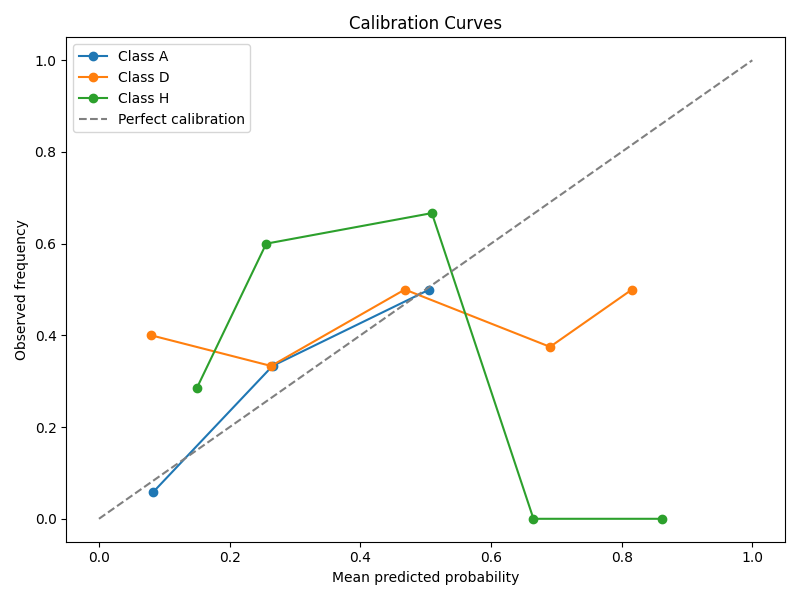
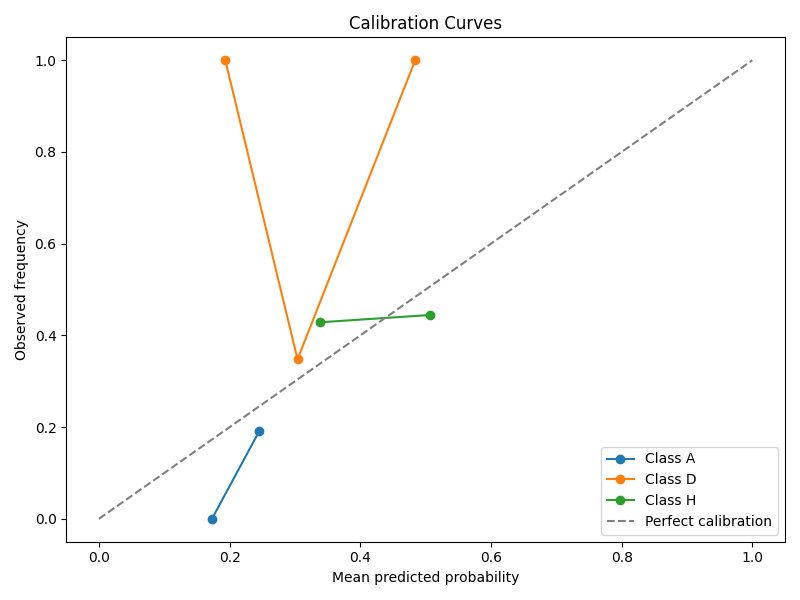
Fixed Issues

diff --git a/fifa-2026-predictor/src/models/train_xgb.py b/fifa-2026-predictor/src/models/train_xgb.py
@@ -41,30 +41,42 @@ def main() -> None:
     x_val, y_val = to_xy(val_df, feature_cols)
 
     xgb_cfg = cfg["model"]["xgb"]
+    esr = xgb_cfg.get("early_stopping_rounds")
+    early_stopping_rounds = int(esr) if esr is not None else None
+    if early_stopping_rounds is not None and early_stopping_rounds <= 0:
+        early_stopping_rounds = None
+
+    classifier = XGBClassifier(
+        n_estimators=int(xgb_cfg["n_estimators"]),
+        learning_rate=float(xgb_cfg["learning_rate"]),
+        max_depth=int(xgb_cfg["max_depth"]),
+        subsample=float(xgb_cfg["subsample"]),
+        colsample_bytree=float(xgb_cfg["colsample_bytree"]),
+        min_child_weight=int(xgb_cfg.get("min_child_weight", 1)),
+        gamma=float(xgb_cfg.get("gamma", 0.0)),
+        reg_alpha=float(xgb_cfg.get("reg_alpha", 0.0)),
+        reg_lambda=float(xgb_cfg.get("reg_lambda", 1.0)),
+        objective=str(xgb_cfg["objective"]),
+        num_class=3,
+        eval_metric="mlogloss",
+        random_state=int(cfg["project"]["random_state"]),
+        early_stopping_rounds=early_stopping_rounds,
+    )
+
+    preprocessor.fit(x_train, y_train)
+    x_train_t = preprocessor.transform(x_train)
+    x_val_t = preprocessor.transform(x_val)
+    fit_kwargs: dict = {"verbose": False}
+    if early_stopping_rounds is not None and early_stopping_rounds > 0:
+        fit_kwargs["eval_set"] = [(x_val_t, y_val)]
+    classifier.fit(x_train_t, y_train, **fit_kwargs)
+
     model = Pipeline(
         steps=[
             ("preprocessor", preprocessor),
-            (
-                "classifier",
-                XGBClassifier(
-                    n_estimators=int(xgb_cfg["n_estimators"]),
-                    learning_rate=float(xgb_cfg["learning_rate"]),
-                    max_depth=int(xgb_cfg["max_depth"]),
-                    subsample=float(xgb_cfg["subsample"]),
-                    colsample_bytree=float(xgb_cfg["colsample_bytree"]),
-                    min_child_weight=int(xgb_cfg.get("min_child_weight", 1)),
-                    gamma=float(xgb_cfg.get("gamma", 0.0)),
-                    reg_alpha=float(xgb_cfg.get("reg_alpha", 0.0)),
-                    reg_lambda=float(xgb_cfg.get("reg_lambda", 1.0)),
-                    objective=str(xgb_cfg["objective"]),
-                    num_class=3,
-                    eval_metric="mlogloss",
-                    random_state=int(cfg["project"]["random_state"]),
-                ),
-            ),
+            ("classifier", classifier),
         ]
     )
-    model.fit(x_train, y_train)
 
     artifact_dir = ensure_artifact_dir(cfg["paths"]["trained_model_dir"])
     model_path = artifact_dir / f"{args.model_name}.joblib"
@@ -79,7 +91,13 @@ def main() -> None:
             "test": len(test_df),
         },
         "feature_columns": feature_cols,
+        "early_stopping_rounds": early_stopping_rounds,
     }
+    if early_stopping_rounds is not None and early_stopping_rounds > 0:
+        try:
+            metadata["best_iteration"] = int(classifier.best_iteration)
+        except AttributeError:
+            pass
     meta_path.write_text(json.dumps(metadata, indent=2), encoding="utf-8")
     print(f"Saved model to {model_path}")
     print(f"Train: {len(train_df)} | Val: {len(val_df)} | Test: {len(test_df)}")

diff --git a/fifa-2026-predictor/src/evaluation/evaluate.py b/fifa-2026-predictor/src/evaluation/evaluate.py
@@ -11,7 +11,14 @@ import numpy as np
 from sklearn.calibration import calibration_curve
 from sklearn.metrics import accuracy_score, log_loss
 
-from src.models.common import TARGET_MAP, load_feature_data, make_chronological_split, to_xy
+from src.models.common import (
+    INV_TARGET_MAP,
+    TARGET_MAP,
+    build_preprocessor,
+    load_feature_data,
+    make_chronological_split,
+    to_xy,
+)
 from src.utils import PROJECT_ROOT, ensure_parent_dir, load_config
 
 
@@ -20,14 +27,25 @@ def multiclass_brier_score(y_true: np.ndarray, y_prob: np.ndarray) -> float:
     return float(np.mean(np.sum((y_prob - one_hot) ** 2, axis=1)))
 
 
+def align_predict_proba(y_prob: np.ndarray, classes: np.ndarray) -> np.ndarray:
+    """Reorder sklearn/XGBoost `predict_proba` columns to ascending class label 0, 1, …"""
+    classes = np.asarray(classes).astype(int).ravel()
+    if classes.size != y_prob.shape[1]:
+        raise ValueError("classes length must match number of probability columns.")
+    order = np.argsort(classes)
+    if np.array_equal(order, np.arange(len(classes))):
+        return y_prob
+    return y_prob[:, order]
+
+
 def save_calibration_plot(
     y_true: np.ndarray,
     y_prob: np.ndarray,
     output_png: str,
 ) -> None:
-    class_names = ["A", "D", "H"]
     plt.figure(figsize=(8, 6))
-    for idx, cls in enumerate(class_names):
+    for idx in range(y_prob.shape[1]):
+        cls = INV_TARGET_MAP[idx]
         binary_true = (y_true == idx).astype(int)
         frac_pos, mean_pred = calibration_curve(binary_true, y_prob[:, idx], n_bins=5)
         plt.plot(mean_pred, frac_pos, marker="o", label=f"Class {cls}")
@@ -64,11 +82,12 @@ def main() -> None:
     )
 
     model = joblib.load(PROJECT_ROOT / args.model_path)
-    feature_cols = [c for c in test_df.columns if c not in {"target", "home_score", "away_score", "date"}]
-    feature_cols = [c for c in feature_cols if c in test_df.columns]
+    _, feature_cols = build_preprocessor(df)
     x_test, y_test = to_xy(test_df, feature_cols)
 
-    y_prob = model.predict_proba(x_test)
+    y_prob_raw = model.predict_proba(x_test)
+    clf = model.named_steps["classifier"]
+    y_prob = align_predict_proba(y_prob_raw, clf.classes_)
     y_pred = np.argmax(y_prob, axis=1)
 
     metrics = {

diff --git a/fifa-2026-predictor/src/app/predict_match.py b/fifa-2026-predictor/src/app/predict_match.py
@@ -13,8 +13,9 @@ import numpy as np
 import pandas as pd
 from scipy.stats import poisson
 
+from src.features.competition_weights import COMPETITION_WEIGHTS, DEFAULT_COMPETITION_WEIGHT
 from src.features.elo import EloConfig, expected_score, update_ratings
-from src.models.common import INV_TARGET_MAP
+from src.models.common import TARGET_MAP
 from src.utils import PROJECT_ROOT, load_config
 
 
@@ -91,15 +92,6 @@ def build_pre_match_row(
     home_elo = float(ratings[home_team])
     away_elo = float(ratings[away_team])
 
-    _competition_weights = {
-        "FIFA World Cup": 5,
-        "UEFA Euro": 4,
-        "Copa America": 4,
-        "UEFA Nations League": 3,
-        "UEFA Euro Qualification": 2,
-        "FIFA World Cup Qualification": 2,
-        "International Friendly": 1,
-    }
     elo_adj = home_elo + (0.0 if neutral else elo_cfg.home_advantage)
     row = {
         "home_team": home_team,
@@ -126,7 +118,7 @@ def build_pre_match_row(
         "form_diff_home_away": home_form - away_form,
         "goal_balance_diff": (home_gf - home_ga) - (away_gf - away_ga),
         "rank_diff": home_fifa_rank - away_fifa_rank,
-        "competition_weight": _competition_weights.get(competition, 2),
+        "competition_weight": COMPETITION_WEIGHTS.get(competition, DEFAULT_COMPETITION_WEIGHT),
         "is_same_confederation": int(home_confederation == away_confederation),
     }
     return pd.DataFrame([row])
@@ -186,16 +178,18 @@ def main() -> None:
         cfg=cfg,
     )
 
+    clf = model.named_steps["classifier"]
+    classes = clf.classes_
     probs = model.predict_proba(sample)[0]
-    ordered = [(INV_TARGET_MAP[idx], float(prob)) for idx, prob in enumerate(probs)]
+    prob_by_class = {int(c): float(p) for c, p in zip(classes, probs)}
     result = {
         "home_team": args.home_team,
         "away_team": args.away_team,
         "match_date": args.match_date,
         "probabilities": {
-            "away_win": ordered[0][1],
-            "draw": ordered[1][1],
-            "home_win": ordered[2][1],
+            "away_win": prob_by_class.get(TARGET_MAP["A"], 0.0),
+            "draw": prob_by_class.get(TARGET_MAP["D"], 0.0),
+            "home_win": prob_by_class.get(TARGET_MAP["H"], 0.0),
         },
     }
 

diff --git a/fifa-2026-predictor/src/features/build_features.py b/fifa-2026-predictor/src/features/build_features.py
@@ -10,18 +10,9 @@ from typing import Any
 import numpy as np
 import pandas as pd
 
+from src.features.competition_weights import COMPETITION_WEIGHTS, DEFAULT_COMPETITION_WEIGHT
 from src.features.elo import EloConfig, expected_score, update_ratings
 from src.utils import PROJECT_ROOT, ensure_parent_dir, load_config
-
-_COMPETITION_WEIGHTS: dict[str, int] = {
-    "FIFA World Cup": 5,
-    "UEFA Euro": 4,
-    "Copa America": 4,
-    "UEFA Nations League": 3,
-    "UEFA Euro Qualification": 2,
-    "FIFA World Cup Qualification": 2,
-    "International Friendly": 1,
-}
 
 
 def _result_label(home_score: int, away_score: int) -> str:
@@ -108,7 +99,7 @@ def build_feature_table(matches: pd.DataFrame, cfg: dict[str, Any]) -> pd.DataFr
             "form_diff_home_away": home_form - away_form,
             "goal_balance_diff": (home_gf_roll - home_ga_roll) - (away_gf_roll - away_ga_roll),
             "rank_diff": home_rank - away_rank,
-            "competition_weight": _COMPETITION_WEIGHTS.get(competition, 2),
+            "competition_weight": COMPETITION_WEIGHTS.get(competition, DEFAULT_COMPETITION_WEIGHT),
             "is_same_confederation": int(home_conf == away_conf),
             "home_score": int(row.home_score),
             "away_score": int(row.away_score),

diff --git a/fifa-2026-predictor/src/features/competition_weights.py b/fifa-2026-predictor/src/features/competition_weights.py
@@ -1,0 +1,13 @@
+"""Single source of truth for competition importance (features + inference)."""
+
+COMPETITION_WEIGHTS: dict[str, int] = {
+    "FIFA World Cup": 5,
+    "UEFA Euro": 4,
+    "Copa America": 4,
+    "UEFA Nations League": 3,
+    "UEFA Euro Qualification": 2,
+    "FIFA World Cup Qualification": 2,
+    "International Friendly": 1,
+}
+
+DEFAULT_COMPETITION_WEIGHT = 2

diff --git a/fifa-2026-predictor/src/models/common.py b/fifa-2026-predictor/src/models/common.py
@@ -96,7 +96,11 @@ def build_preprocessor(df: pd.DataFrame) -> tuple[ColumnTransformer, list[str]]:
 
 def to_xy(df: pd.DataFrame, feature_cols: list[str]) -> tuple[pd.DataFrame, np.ndarray]:
     x = df[feature_cols].copy()
-    y = df["target"].map(TARGET_MAP).values
+    y_series = df["target"].map(TARGET_MAP)
+    if y_series.isna().any():
+        bad = df.loc[y_series.isna(), "target"].unique().tolist()
+        raise ValueError(f"Unknown target label(s) in data: {bad}")
+    y = y_series.astype(int).values
     return x, y
 
 